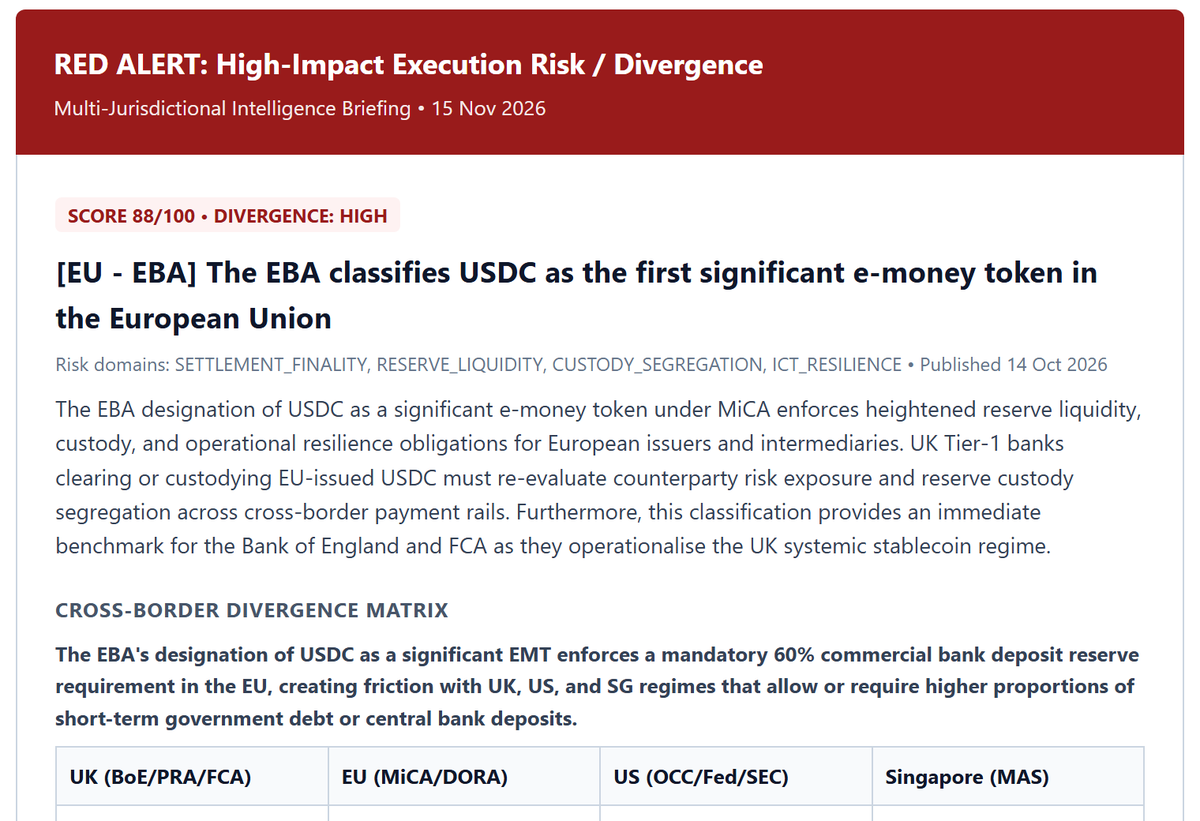
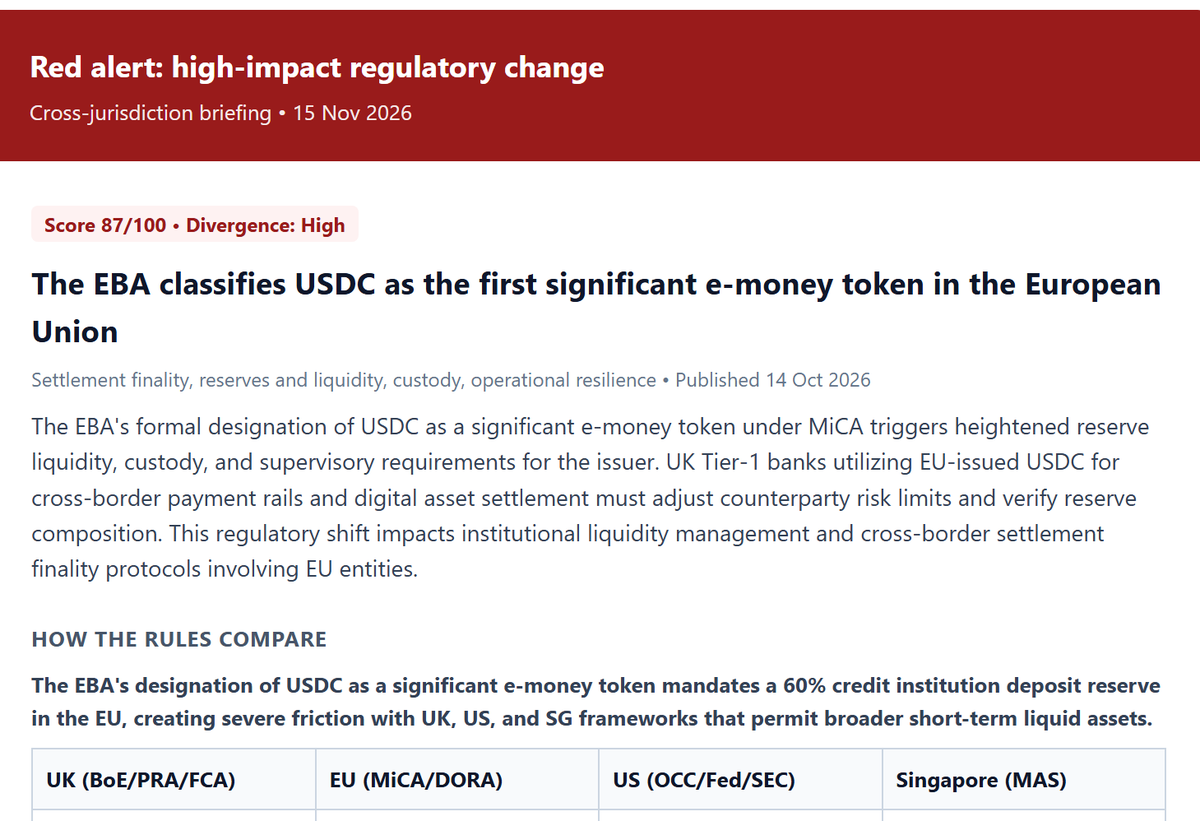
Update the scanner article for the new alert and digest layout
- Replace the alert image (and card image) with a render of the current
  red-alert layout, from the live data for the USDC item (score 87)
- Add a short "Monday digest" section with an excerpt of the new digest:
  one-line week summary, top signal, and the other-signals table
- Clarify that every item scoring 60+, alerts included, goes into the digest

Changed region(s): [[0.0308, 0.2436, 0.9867, 0.7004], [0.0, 0.7308, 0.9867, 1.0], [0.0, 0.0, 1.0, 0.2132]]

diff --git a/content/projects/regulatory-horizon-scanner/index.md b/content/projects/regulatory-horizon-scanner/index.md
@@ -44,7 +44,7 @@ graph TD
 1. **Collect.** Every two hours on weekdays, the scanner reads the feeds of the Bank of England, PRA, FCA, ESMA, EBA, OCC, Federal Reserve, BIS and FINMA.
 2. **Filter.** A keyword screen keeps items on stablecoins, tokenisation, custody, settlement and operational resilience. Most publications stop here.
 3. **Rate.** Each remaining item gets an impact score. Anything scoring 60 or more is also checked against a library of UK, EU, US and Singapore rules for divergence.
-4. **Deliver.** Red alerts go out straight away. Other items scoring 60 or more wait for the Monday digest.
+4. **Deliver.** Red alerts go out straight away. Every item scoring 60 or more, alerts included, appears in the Monday digest.
 
 ---
 
@@ -56,7 +56,7 @@ Each item can receive two ratings.
 
 | Score | Typical publication | Result |
 |---|---|---|
-| 85+ | Final rule or supervisory decision affecting settlement, reserves, custody or capital | Red alert the same day |
+| 85+ | Final rule or supervisory decision affecting settlement, reserves, custody or capital | Red alert the same day, then the Monday digest |
 | 60–84 | Consultation, guidance or speech signalling a change | Divergence check, then the Monday digest |
 | Under 60 | Research, background or loosely related news | Logged, no email |
 
@@ -76,15 +76,21 @@ On 14 October the European Banking Authority classified USDC as the first *signi
 
 **Filtered.** "E-money token" is on the keyword list, so the item went through.
 
-**Impact score: 88.** A formal supervisory decision that changes how an issuer must hold its reserves sits in the top band. The scanner tagged it under reserves, custody, settlement and operational resilience.
+**Impact score: 87.** A formal supervisory decision that changes how an issuer must hold its reserves sits in the top band. The scanner tagged it under reserves, custody, settlement and operational resilience.
 
 **Divergence: High.** Significant status under MiCA requires at least 60% of reserves to be held as deposits at commercial banks. The US GENIUS Act allows a stablecoin to be backed mainly by short-dated Treasury bills and repo. Singapore and the UK proposals each use a different mix again. A reserve structure built for the US would not meet the EU requirement.
 
-**Delivered.** A red alert with the score, a four-country comparison table, three checks for a second-line risk team and a three-sentence summary written for a risk committee paper.
+**Delivered.** A red alert that opens with the two ratings and the areas affected, then sets out the impact, compares the rules across the four jurisdictions, lists three checks for a second-line risk team and ends with a three-sentence summary ready for a risk committee paper.
 
-{{< figure src="feature.png" alt="Red alert email showing a score of 88 out of 100, high divergence, and the start of a UK, EU, US and Singapore comparison table for the EBA's USDC decision" caption="The top of the red alert for the USDC decision." >}}
+{{< figure src="feature.png" alt="Red alert email showing a score of 87 out of 100, high divergence, the areas affected, and the start of a UK, EU, US and Singapore comparison for the EBA's USDC decision" caption="The top of the red alert for the USDC decision." >}}
 
-The same run looked at 291 feed entries, and 12 passed the filter. Two qualified as red alerts: this one and the OCC's final rule implementing the GENIUS Act. Three went to the Monday digest, including the Bank of England's approach to tokenised collateral in central clearing. The other seven were logged without an email.
+The same run looked at 291 feed entries, and 12 passed the filter. Two qualified as red alerts: this one and the OCC's final rule implementing the GENIUS Act. Three more scored between 60 and 84, including the Bank of England's approach to tokenised collateral in central clearing. The other seven were logged without an email.
+
+### The Monday digest
+
+All five items scoring 60 or more went into the following Monday's digest. It opens with one line on the week, *"5 signals this week: 2 high priority and 3 to watch"*, then gives the highest-scoring item in full, in the same format as an alert. Everything else is a short table with each item's score, divergence and publication date, so the week can be read in under a minute.
+
+{{< figure src="digest.png" alt="Weekly digest email: a one-line summary of five signals, the OCC GENIUS Act rule as the top signal, and an 'Other signals' table listing the EBA USDC decision at 87 with high divergence and the Bank of England tokenised collateral paper at 72 with medium divergence" caption="An excerpt from the Monday digest. The top signal's full detail is cut for length." >}}
 
 ---
 
